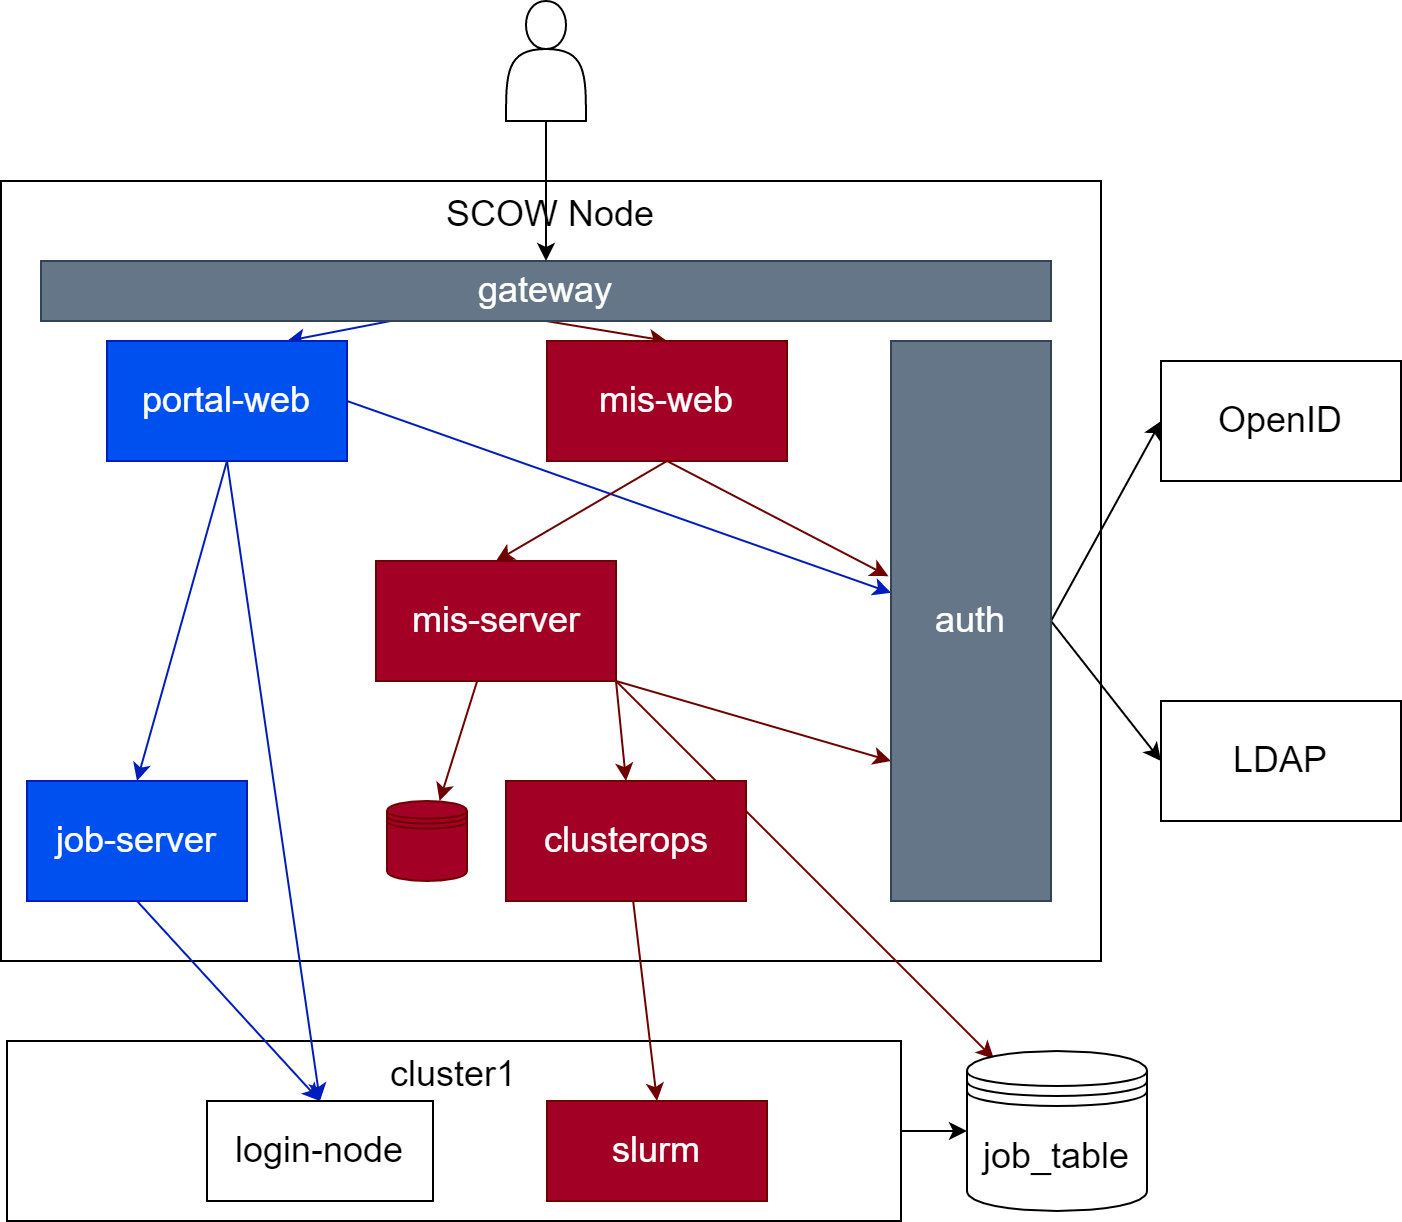
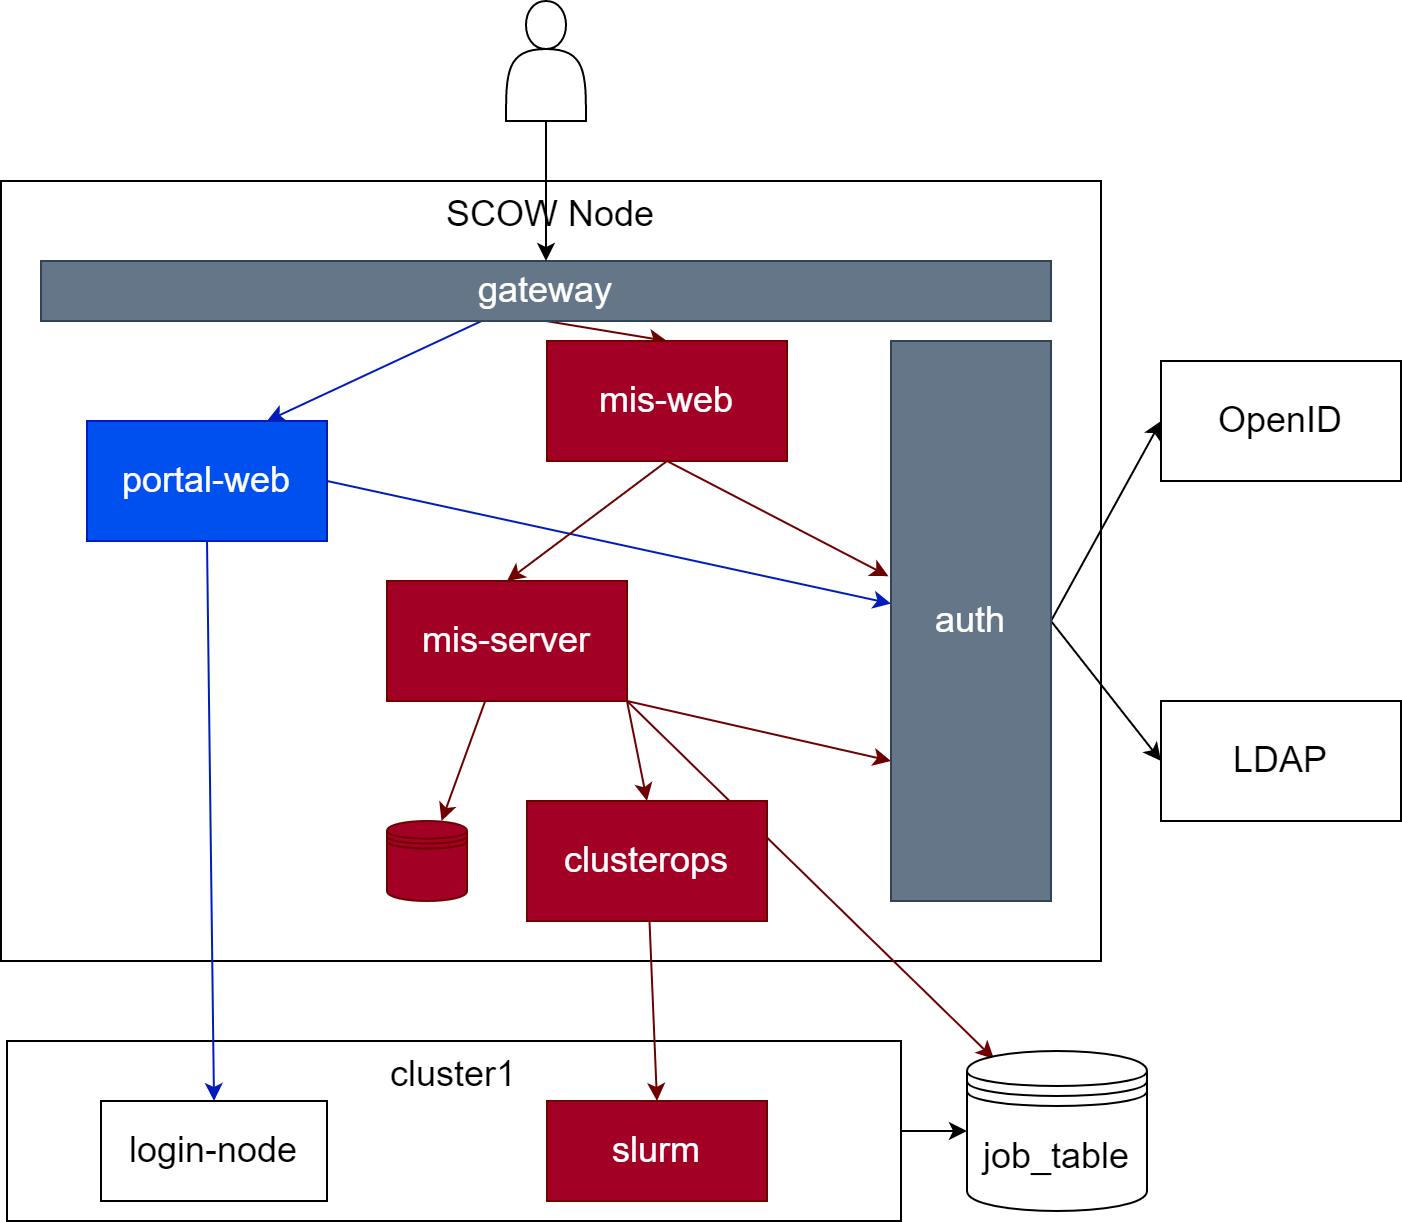
docs: simplify docs

diff --git a/docs/tools/envDoc.ts b/docs/tools/envDoc.ts
@@ -73,7 +73,6 @@ const config = [
   { app: "mis-server", md: "mis/refs/mis-server.md" },
   { app: "mis-web", configFile: "config", md: "mis/refs/mis-web.md" },
   { app: "portal-web", configFile: "config", md: "portal/refs/portal-web.md" },
-  { app: "job-server-slurm", md: "portal/refs/job-server-slurm.md" },
 ] as EnvConfig[];
 
 const TABLE_START = "<!-- ENV TABLE START -->";

diff --git a/docs/docs/portal/refs/portal-web.md b/docs/docs/portal/refs/portal-web.md
@@ -15,7 +15,6 @@ title: "portal-web"
 |`AUTH_EXTERNAL_URL`|字符串|认证服务外网地址|/auth|
 |`AUTH_INTERNAL_URL`|字符串|认证服务内网地址|http://auth:5000|
 |`ENABLE_JOB_MANAGEMENT`|布尔值|是否启动作业管理功能|false|
-|`JOB_SERVER`|字符串|作业服务器的地址|job-server:5000|
 |`ENABLE_LOGIN_DESKTOP`|布尔值|是否启动登录节点上的桌面功能|false|
 |`LOGIN_DESKTOP_WMS`|字符串|登录节点上可以启动的桌面类型，格式：名字=wm值,名字=wm值<br/>示例：Xfce=xfce,gnome3=|Xfce=xfce|
 |`ENABLE_APPS`|布尔值|是否启动交互式任务功能|false|
@@ -34,6 +33,10 @@ title: "portal-web"
 |`PROXY_BASE_PATH`|字符串|代理地址的根路径|/proxy|
 |`FILE_SERVERS`|字符串|覆盖集群的文件管理服务器地址。如果一个集群不设置，将会使用集群配置文件中的loginNode<br/>示例：集群ID=IP,集群ID=IP||
 |`MOCK_USER_ID`|字符串|覆盖已登录用户的用户ID|不设置|
+|`TURBOVNC_PATH`|字符串|TurboVNC的安装路径|/opt/TurboVNC|
+|`SAVED_JOBS_DIR`|字符串|将保存的作业保存到什么位置。相对于用户的家目录|scow/savedJobs|
+|`APP_JOBS_DIR`|字符串|将交互式任务的信息保存到什么位置。相对于用户的家目录|scow/appData|
+|`MAX_LOGIN_DESKTOPS`|数字|最大登录节点桌面数量|3|
 
 <!-- ENV TABLE END -->
 

diff --git a/docs/docs/common/deployment/prepare.md b/docs/docs/common/deployment/prepare.md
@@ -3,16 +3,24 @@ sidebar_position: 2
 title: 准备环境
 ---
 
+# 集群要求
+
+要在您的集群上使用SCOW，请保证您的集群满足以下条件：
+
+- 集群中的各个节点可相互通过网络连接
+- 使用slurm调度器，并且
+  - 版本为21.08.4及以上
+  - 已经部署slurm的[Accounting](https://slurm.schedmd.com/accounting.html#database-configuration)功能
+
 # 准备环境
 
-我们推荐将系统主要部署在一个**单独**的节点上。下文称部署这些组件的节点为**服务节点**。
+我们推荐将SCOW部署在一个**单独**的节点上。下文称部署这些组件的节点为**服务节点**。
 
 服务节点应该安装好`docker`（[安装docker的官方文档](https://docs.docker.com/engine/install/)）以及`docker compose`（[安装docker compose的官方文档](https://docs.docker.com/compose/install/)）。
 
-
 在部署的过程中，可能有的组件需要其他配置，请参考对应的文档。
 
-## 准备相关文件结构
+# 从
 
 我们推荐将`docker-compose.yml`文件以及所有配置文件存放到一个目录中，并将存放配置文件的目录映射到容器的`/etc/scow`目录中。
 

diff --git a/docs/docs/portal/deployment/jobs.md b/docs/docs/portal/deployment/jobs.md
@@ -7,29 +7,6 @@ title: 作业管理
 
 作业管理功能使用户能够在网页上管理、提交作业。
 
-## 前提条件
-
-目前，我们只支持slurm。要部署slurm的作业管理功能，需要满足以下要求：
-
-- 作业管理服务器所在机器可以单独免密以任意用户SSH登录到对应集群的登录节点
-- [集群配置文件](../../common/deployment/clusters.mdx)中需要使用此功能的集群已指定至少一个登录节点
-
-## 部署job-server-slurm
-
-在服务节点的`docker-compose.yml`文件的`services`部分中，增加以下内容：
-
-```yaml title=docker-compose.yml
-  job-server:
-    image: %CR_URL%/job-server-slurm
-    volumes:
-      # 映射配置文件
-      - ./config:/etc/scow
-      # 将SSH目录映射进去
-      - /root/.ssh:/root/.ssh
-```
-
-运行`docker compose up -d`启动作业管理服务器。
-
 ## 配置前端
 
 在`docker-compose.yml`文件的门户前端服务（`portal-web`）中，增加以下配置。
@@ -39,7 +16,6 @@ title: 作业管理
     # ...
     environment:
       ENABLE_JOB_MANAGEMENT: 1
-      JOB_SERVER: job-server:5000
 ```
 
 运行`docker compose up -d`重启前端。

diff --git a/docs/docs/portal/deployment/apps.md b/docs/docs/portal/deployment/apps.md
@@ -7,18 +7,6 @@ title: 交互式应用
 
 交互式应用功能能够让用户在浏览器上使用集群资源启动应用，并通过浏览器使用这些应用。
 
-## 前提条件
-
-请确认集群配置满足以下条件：
-
-- [集群配置文件](../../common/deployment/clusters.mdx)中需要使用此功能的集群已指定至少一个登录节点和一个计算节点
-- **服务节点**可以免密以任何用户SSH登录到各个**登录节点**，并且**服务节点**的`/root/.ssh`目录下有登录所需要的`id_rsa.pub`和`id_rsa`文件
-- **服务节点**以及**门户前端**容器可以使用集群配置文件中的地址访问到会启动应用的任何一个节点和任何端口
-
-## 部署作业管理服务器
-
-请参考[作业功能部署文档](./jobs.md#部署job-server-slurm)部署作业管理服务器。
-
 ## 配置门户前端
 
 在`docker-compose.yml`的`services`部分，给门户前端服务增加配置：

diff --git a/docs/docs/portal/intro.md b/docs/docs/portal/intro.md
@@ -7,6 +7,22 @@ title: 简介
 
 门户系统给高性能计算集群的用户提供了一个基本web的功能入口。
 
+# 支持的功能
+
+- 连接到登录节点的终端
+- 作业管理、提交
+- 文件管理
+- 使用桌面节点的桌面
+- 以GUI和Web形式启动计算作业，并在浏览器上使用软件
+
+# 前提条件
+
+请确认集群配置满足以下条件：
+
+- [集群配置文件](../../common/deployment/clusters.mdx)中的所有集群已指定至少一个登录节点和一个计算节点
+- **服务节点**可以免密以任何用户SSH登录到各个**登录节点**，并且**服务节点**的`/root/.ssh`目录下有登录所需要的`id_rsa.pub`和`id_rsa`文件
+- **服务节点**以及**门户**容器可以使用集群配置文件中的地址可以访问到所有计算节点的所有端口
+
 # 部署
 
 1. [前端](./deployment/web.mdx)

diff --git a/docs/docs/portal/deployment/desktop.md b/docs/docs/portal/deployment/desktop.md
@@ -15,14 +15,7 @@ title: 登录节点桌面
 
 请确认集群配置满足以下条件：
 
-- [集群配置文件](../../common/deployment/clusters.mdx)中需要使用此功能的集群已指定至少一个登录节点
-- **服务节点**可以免密以任何用户SSH登录到各个**桌面节点**，并且**服务节点**的`/root/.ssh`目录下有登录所需要的`id_rsa.pub`和`id_rsa`文件
-- **服务节点**以及**门户前端**容器可以使用集群配置文件中的地址访问到会启动应用的任何一个桌面节点的任何端口
 - **桌面节点**已安装TurboVNC 3.0版本或者以上（[官方安装教程](https://turbovnc.org/Downloads/YUM)）
-
-## 部署作业管理服务器
-
-请参考[作业功能部署文档](./jobs.md#部署job-server-slurm)部署作业管理服务器。
 
 ## 配置门户前端
 

diff --git a/docs/docs/common/deployment/overview.md b/docs/docs/common/deployment/overview.md
@@ -1,6 +1,6 @@
 ---
 sidebar_position: 1
-title: 简介
+title: 安装
 ---
 
 # 安装和配置简介
@@ -9,7 +9,7 @@ title: 简介
 
 为了简化部署，系统组件以docker镜像的形式分发。
 
-系统主要采用**环境变量**的形式进行配置，对于一些复杂的或者多个组件共用的配置（如集群信息）使用**配置文件**配置。配置文件均应映射到容器的`/etc/scow`目录下。配置文件支持yaml和json格式。系统在运行前将会对配置进行检查，如果配置不合法将会中止运行。
+系统采用**环境变量**和**配置文件**配置。配置文件均应映射到容器的`/etc/scow`目录下。配置文件支持yaml和json格式。系统在运行前将会对配置进行检查，如果配置不合法将会中止运行。
 
 ## 从源码构建
 

diff --git a/docs/docs/portal/deployment/file.md b/docs/docs/portal/deployment/file.md
@@ -7,13 +7,6 @@ title: 文件管理
 
 文件管理功能能够让用户在浏览器上就能管理集群中的文件。系统通过SFTP以用户的身份连接到集群的一个登录节点上，并通过SFTP协议进行文件操作。
 
-## 前提条件
-
-要使用此功能，请确认
-
-- **服务节点**可以免密以**任何系统内的用户**SSH登录到各个集群的登录节点，并且服务节点的`/root/.ssh`目录下有登录所需要的`id_rsa.pub`和`id_rsa`文件
-- [集群配置文件](../../common/deployment/clusters.mdx)中需要使用此功能的集群已指定至少一个登录节点
-
 ## 配置门户前端
 
 您不需要任何配置即可使用此功能。系统将会给集群配置文件中至少存在一个登录节点的集群开启此功能。

diff --git a/docs/docs/portal/deployment/shell.md b/docs/docs/portal/deployment/shell.md
@@ -7,13 +7,6 @@ title: 终端
 
 终端功能能够让用户在浏览器上就能访问集群的终端。
 
-## 前提条件
-
-要使用终端功能，请确认
-
-- **服务节点**可以免密以**任何系统内的用户**SSH登录到各个集群的登录节点，并且服务节点的`/root/.ssh`目录下有登录所需要的`id_rsa.pub`和`id_rsa`文件
-- [集群配置文件](../../common/deployment/clusters.mdx)中需要使用此功能的集群已指定至少一个登录节点
-
 ## 配置门户前端
 
 在`docker-compose.yml`文件的门户前端服务（`portal-web`）中，增加`ENABLE_SHELL`配置。
